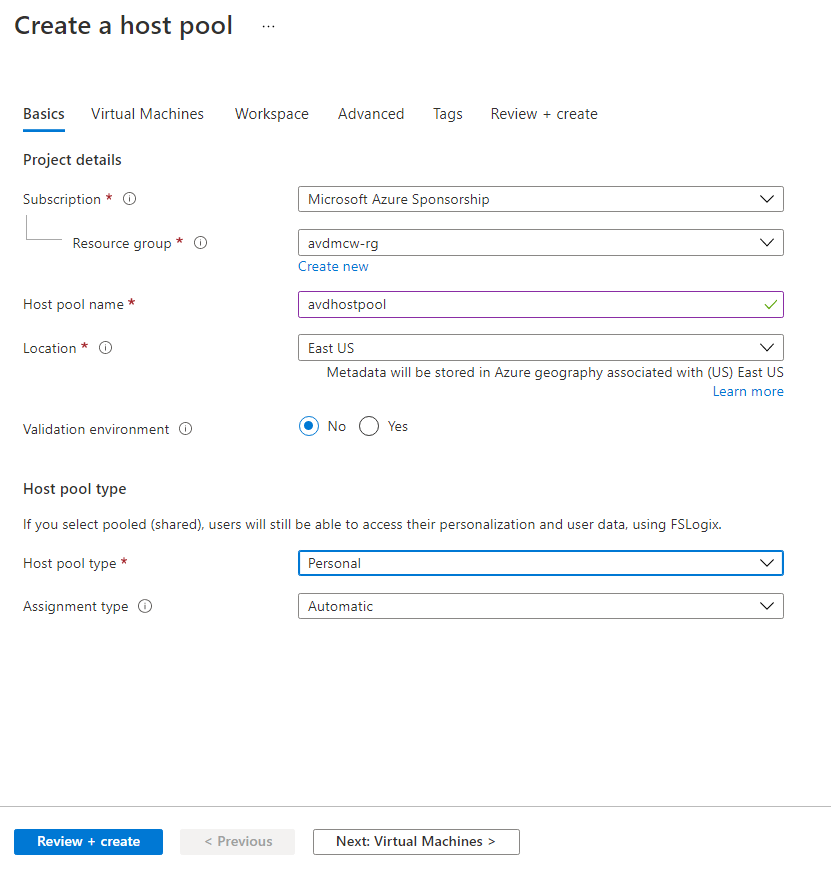
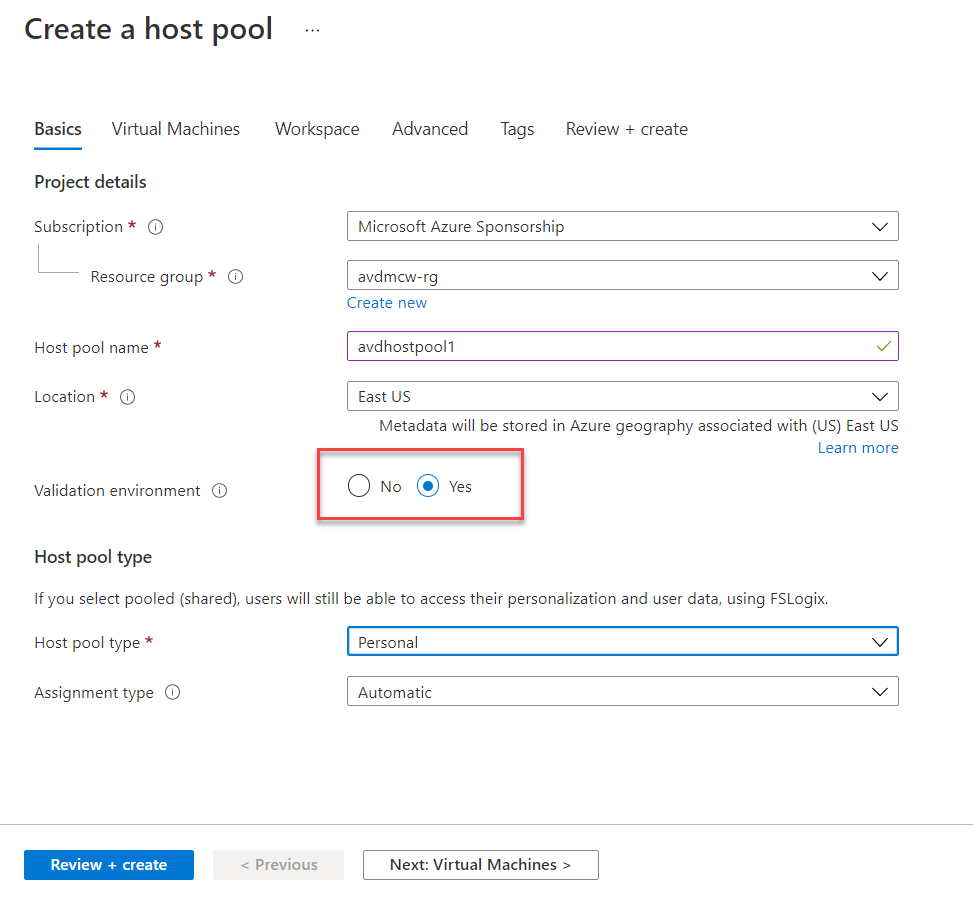
07-sept test-fix images

diff --git a/Hands-on lab/HOL step-by-step - Implementing Azure Virtual Desktop in the enterprise.md b/Hands-on lab/HOL step-by-step - Implementing Azure Virtual Desktop in the enterprise.md
@@ -1192,7 +1192,7 @@ In this exercise we will be creating an Azure Virtual Desktop host pool for pers
    
     ![This image shows where to select host pools under manage and select add to add a new host pool.](images/avdHostPool.png "Azure Virtual Desktop blade")
 
-4.  On the Basics page, refer to the following screenshot to fill in the required fields. Once complete, select **Next: Virtual Machines**.
+4.  On the Basics page, refer to the following screenshot to fill in the required fields. Change **Validation environment** to **Yes**. Once complete, select **Next: Virtual Machines**.
 
     ![This image shows where you will enter the information for the host pool.](images/createhostpool.png "Create host pool page")
 
@@ -1295,7 +1295,7 @@ In this exercise, you will be creating a non-persistent host pool for publishing
 
     ![This image shows where to select host pools under manage and select add to add a new host pool.](images/avdHostPool.png "Azure Virtual Desktop blade")
 
-4.  On the Basics page, refer to the following screenshot to fill in the required fields. Selecting **Pooled** for host pool type. Once complete, select **Next: Virtual Machine**.
+4.  On the Basics page, refer to the following screenshot to fill in the required fields and change **Validation environment** to **Yes**. Selecting **Pooled** for host pool type. Once complete, select **Next: Virtual Machine**.
 
     ![This image shows the create a host pool blade, where you will enter in the information for the virtual machines that will host the remote apps and select next for workspace.](images/remoteapppool.png "Create host pool")
 
